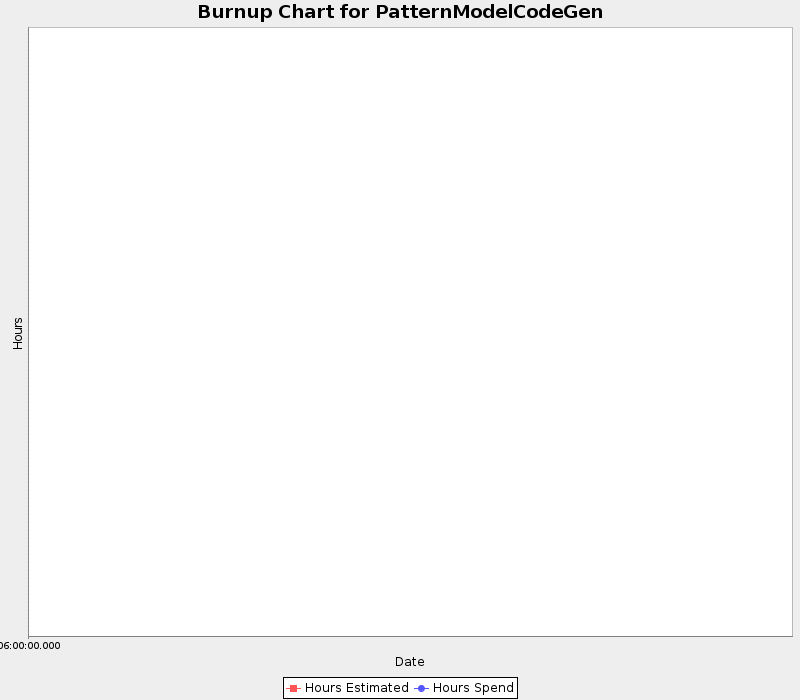
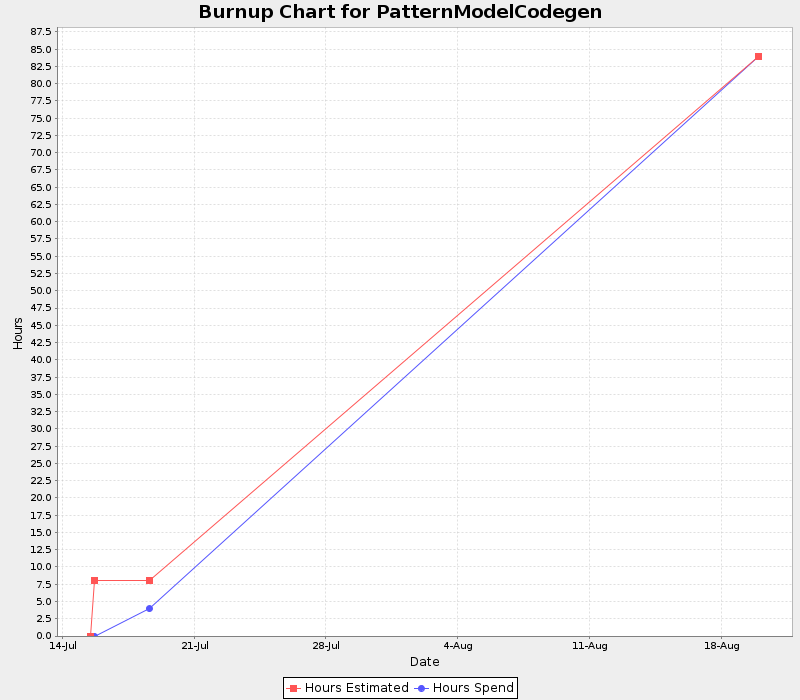
minor
git-svn-id: https://svn.code.sf.net/p/sdmlib/code-0/trunk@468 2b52b8e8-071c-4d2f-a868-389f512d1cbb

diff --git a/doc/PatternModelCodeGenTimeLine.html b/doc/PatternModelCodeGenTimeLine.html
@@ -1,4 +1,8 @@
 <html>
 <body>
-<p>Time line for PatternModelCodeGen</p></body>
+<p>Time line for PatternModelCodegen</p><p>15.07.2012 12:00:00 zuendorf hours spend: 0.0 hours remaining: 0.0 null</p>
+<p>15.07.2012 17:04:28 zuendorf hours spend: 0.0 hours remaining: 8.0 Achieved: Start situation: </p>
+<p>18.07.2012 15:30:28 zuendorf hours spend: 4.0 hours remaining: 4.0 Achieved: Start situation: </p>
+<p>19.08.2012 22:52:42 zuendorf hours spend: 80.0 hours remaining: 0.0 Achieved: Start situation: </p>
+</body>
 </html>
